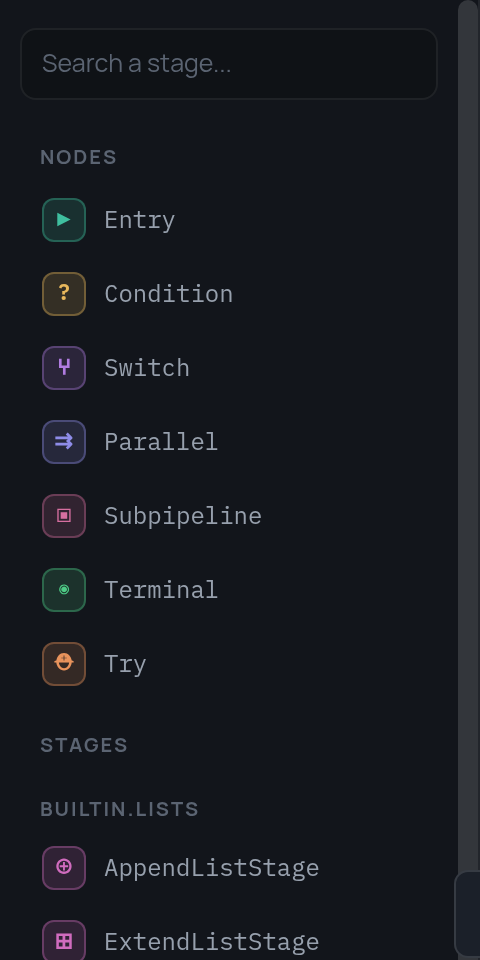
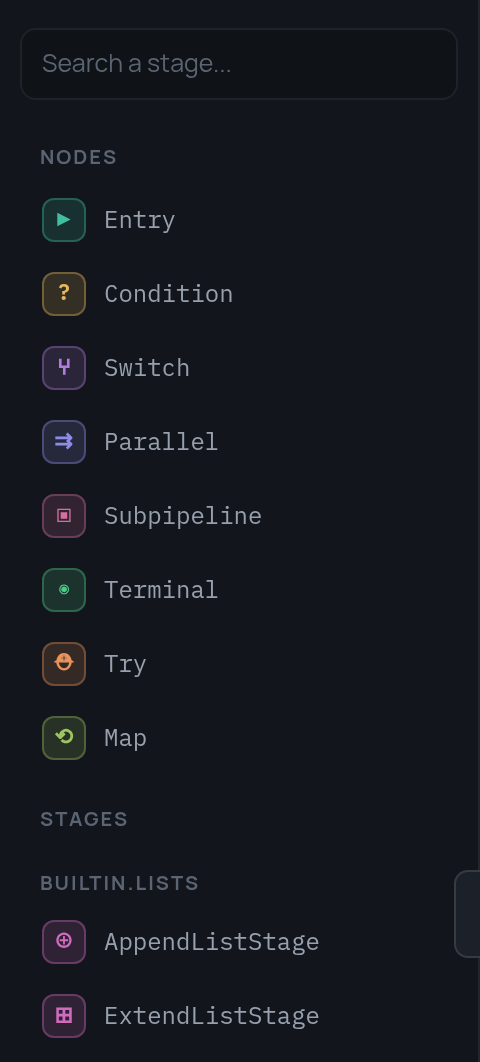
Docs: the map node with screenshots, and the palette reshot
The reference page now shows what the editor shows: the card with the list it
walks and the names it writes, its framed body, and the panel that edits them.
The palette shot was one node type out of date.

The home page counted eight node types and did not list the loop.

diff --git a/docs/index.ru.md b/docs/index.ru.md
@@ -2,7 +2,8 @@
 
 Фреймворк описания и исполнения пайплайнов, заданных JSON: граф узлов,
 пользовательские стадии, иммутабельный фрейм данных, CEL-выражения, retry
-и блочный `try/except`, параллельные ветки, вложенные пайплайны.
+и блочный `try/except`, параллельные ветки, циклы по списку,
+вложенные пайплайны.
 
 ```bash
 pip install stageflow-framework
@@ -24,7 +25,7 @@ pip install stageflow-framework
 | Страница | О чём |
 |---|---|
 | [Быстрый старт](quick-start.ru.md) | установка, своя стадия, запуск пайплайна |
-| [Типы узлов](node-types.ru.md) | восемь типов узлов и их поля |
+| [Типы узлов](node-types.ru.md) | девять типов узлов и их поля |
 | [Модель данных](data-model.ru.md) | фрейм, бакеты аргументов, выходы |
 | [Выражения](expressions.ru.md) | CEL, суффикс `.$`, namespace `vars` |
 
@@ -34,6 +35,7 @@ pip install stageflow-framework
 |---|---|
 | [Узел entry](entry-node.ru.md) | начало графа и переменные старта |
 | [Параллельные ветки](parallel-branches.ru.md) | конкурентность, слияние, отмена |
+| [Узел map](map-node.ru.md) | область графа, исполняемая по разу на элемент |
 | [Ошибки](errors.ru.md) | `retry` на узле, `try`/`except` на области |
 | [Типизация переменных](variable-typing.ru.md) | постепенная типизация, две линии проверок |
 | [Управление сессией](session-control.ru.md) | стоп, пауза, ввод, снапшоты |

diff --git a/docs/index.md b/docs/index.md
@@ -2,7 +2,8 @@
 
 A framework for describing and running JSON-defined pipelines: a graph of
 nodes, user-defined stages, an immutable data frame, CEL expressions, retry
-and block-scoped `try/except`, parallel branches, nested pipelines.
+and block-scoped `try/except`, parallel branches, loops over a list,
+nested pipelines.
 
 ```bash
 pip install stageflow-framework
@@ -23,7 +24,7 @@ step, with screenshots from the editor.
 | Page | What it covers |
 |---|---|
 | [Quick start](quick-start.md) | installing, writing a stage, running a pipeline |
-| [Node types](node-types.md) | the eight node types and their fields |
+| [Node types](node-types.md) | the nine node types and their fields |
 | [Data model](data-model.md) | the frame, argument buckets, outputs |
 | [Expressions](expressions.md) | CEL, the `.$` suffix, the `vars` namespace |
 
@@ -33,6 +34,7 @@ step, with screenshots from the editor.
 |---|---|
 | [The entry node](entry-node.md) | graph start and initial variables |
 | [Parallel branches](parallel-branches.md) | concurrency, merge rules, cancellation |
+| [The map node](map-node.md) | a region of the graph run once per element |
 | [Errors](errors.md) | `retry` per node, `try`/`except` per region |
 | [Variable typing](variable-typing.md) | gradual typing, static and runtime checks |
 | [Session control](session-control.md) | stop/pause/resume, user input, snapshots |

diff --git a/docs/map-node.ru.md b/docs/map-node.ru.md
@@ -16,7 +16,10 @@
 
 `map` исполняет одну область графа по разу на каждый элемент списка. Область —
 это тело, и выводится оно ровно так же, как тело [блока `try`](errors.ru.md):
-всё достижимое из `body` и недостижимое из `next`.
+всё достижимое из `body` и недостижимое из `next`. Редактор обводит её рамкой
+и показывает на карточке, что входит и что выходит:
+
+![Узел map и обведённое им тело](img/ref-map-node.png){ width="340" }
 
 ## Что видит итерация
 
@@ -45,6 +48,11 @@
 
 Объявленные типы проверяются на выходе: если `replies` объявлена, собранный
 список сверяется с объявлением до записи во фрейм.
+
+Панель — тот же JSON словами: список, темп, имена, под которыми приходят
+элемент и индекс, и таблица того, что собирать:
+
+![Узел map в инспекторе](img/ref-map-inspector.png){ width="372" }
 
 ## Последовательно и параллельно
 

diff --git a/docs/map-node.md b/docs/map-node.md
@@ -16,7 +16,10 @@
 
 `map` runs one region of the graph once per element of a list. The region is
 the body, derived exactly like the body of a [`try` block](errors.md):
-everything reachable from `body` but not from `next`.
+everything reachable from `body` but not from `next`. The editor frames it and
+shows on the card what goes in and what comes out:
+
+![A map node and the body it frames](img/ref-map-node.png){ width="340" }
 
 ## What an iteration sees
 
@@ -46,6 +49,11 @@ goes straight to `next`.
 
 Declared types are checked on the way out: if `replies` is declared, the
 collected list is checked against it before it enters the frame.
+
+The panel is the same JSON in words — the list, the pace, the names the
+element and the index arrive under, and the table of what to collect:
+
+![The map node in the inspector](img/ref-map-inspector.png){ width="372" }
 
 ## Sequential and parallel
 
